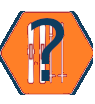
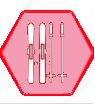
cambios FF

diff --git a/app/Traits/ForfaitsPaymentsTraits.php b/app/Traits/ForfaitsPaymentsTraits.php
@@ -406,6 +406,10 @@ trait ForfaitsPaymentsTraits {
     return die('404');
   }
   
+  /**
+   * /admin/forfaits/orders
+   * @return type
+   */
   function listOrders(){
     
     $year = $this->getActiveYear();
@@ -418,7 +422,7 @@ trait ForfaitsPaymentsTraits {
     
     if ($bIDs) $bIDs = array_unique($bIDs);
   
-    $allForfaits = Forfaits::whereIn('status', [2,3])
+    $allForfaits = Forfaits::whereIn('status', [2,3,5])
             ->whereIn('forfaits.book_id',$bIDs)->get();
 
     $lstOrders = [];
@@ -945,6 +949,7 @@ trait ForfaitsPaymentsTraits {
           }
      
           if ($type == 'sms'){
+            return response()->json(['status' => 'error','msg'=>'SMS no habilitado']);
             if (!$phone || trim($phone) == ''){
               return response()->json(['status' => 'error','msg'=>'el usuario no posee teléfono']);
             }
@@ -999,11 +1004,55 @@ trait ForfaitsPaymentsTraits {
               }
               $orderText = $this->renderOrderList($ordersLst);
             }
-            
             $this->sendEmail_linkForfaitPayment($cli_email,$cli_name,$subject,$orderText,$urlPay,$book);
+            return response()->json(['status' => 'ok']);
           }
-          return response()->json(['status' => 'ok']);
         }
+      return response()->json(['status' => 'error3']);
+    }
+    
+    public function recordarSolicitudFF(Request $req) {
+      
+      $key = $req->input('key', null);
+      $type = $req->input('type', 'mail');
+      $token = $req->header('token-ff');
+      $client = $req->header('client');
+      if (!$this->checkUserAdmin($token,$client)) return die('404');
+    
+      $oForfait = Forfaits::getByKey($key);
+      if (!$oForfait) {
+        return response()->json(['status' => 'error1']);
+      }
+      
+      if ($oForfait){
+          $book = Book::find($oForfait->book_id);
+          if ($book){
+            $cli_email = $book->customer->email;
+            $cli_name = $book->customer->name;
+            $phone = $book->customer->phone;
+            $subject = 'formulario peticion Forfaits, clases de esquí';
+          
+            $urlFF = env('FF_PAGE').encriptID($oForfait->id).'-'. getKeyControl($oForfait->id);
+            $message = $message_wsp = Settings::getContent('forfait_email_request');
+            $message = str_replace('{customer_name}', $cli_name, $message);
+           
+            if ($type == 'text'){
+              $message = str_replace('{link_forfait}', $urlFF, $message);
+              $message = $this->clearVars($message);
+              $messageWSP = $message;
+              $message = strip_tags($message);
+              return response()->json(['status' => 'ok','msg'=>$message,'wsp'=> urlencode($messageWSP)]);
+            }
+            if ($type == 'mail'){
+              $message = nl2br($message);
+              $urlFF ='<a href="'.$urlFF.'" title="Ir al forfait">'.$urlFF.'</a>';
+              $message = str_replace('{link_forfait}', $urlFF, $message);
+              $message = $this->clearVars($message);
+              $this->sendEmail_text($message,$subject,$cli_email);
+              return response()->json(['status' => 'ok']);
+            }
+        }
+      }
       return response()->json(['status' => 'error3']);
     }
     
@@ -1422,6 +1471,10 @@ trait ForfaitsPaymentsTraits {
     
     $orders = [];
     $ff_status = $oForfait->checkStatus();
+    $oBook = Book::find($oForfait->book_id);
+    
+    //es mas important el status en la reserva
+    if ($oBook) $ff_status = $oBook->ff_status;
     
     $orderLst = $oForfait->orders()->get();
     if ($orderLst){
@@ -1599,13 +1652,23 @@ trait ForfaitsPaymentsTraits {
     if ($oForfait){
       $resume = $oForfait->resume();
       echo $resume;
-      if ($oForfait->more_info){
-        echo '<div class="ffsolicitud">';
-        if ($oForfait->phone) echo $oForfait->phone.'<br>';
-        if ($oForfait->email) echo $oForfait->email.'<br>';
-        echo $oForfait->more_info;
-        echo '</div>';
-      }
+//      if ($oForfait->more_info){
+//        echo '<div class="ffsolicitud">Solicitud: <br/>';
+////        if ($oForfait->phone) echo $oForfait->phone.'<br>';
+////        if ($oForfait->email) echo $oForfait->email.'<br>';
+//        $more_info = json_decode($oForfait->more_info);
+//        if ($more_info){
+//          if (is_array($more_info->opts) && count($more_info->opts)>0){
+//            echo '<b>'.implode(', ', $more_info->opts).'</b><br>';
+//          }
+//          echo $more_info->txt;
+//        } else {
+//          echo $oForfait->more_info;
+//        }
+//        
+//        
+//        echo '</div>';
+//      }
     } else {
       echo '<p>Sin datos</p>';
     }

diff --git a/app/Traits/BookEmailsStatus.php b/app/Traits/BookEmailsStatus.php
@@ -507,31 +507,43 @@ trait BookEmailsStatus
      * @param type $book
      * @param type $subject
      */
-    public function sendEmail_ForfaitNewOrder($order,$link)
+    public function sendEmail_ForfaitNewOrder($order,$link,$customer)
     {
        
       $subject = 'Nueva solicitud pública de Forfaits';
       
       $mailClientContent = 'Hola, un nuevo usuario ha solicitado Forfaits desde la parte pública:<br/><br/>';
       $linkBook = '<a href="https://admin.apartamentosierranevada.net/admin/reservas/update/'.$order->book_id.'">'.$order->book_id.'</a>';
-      $clientMail = $order->email;
+      
+      $more_info = json_decode($order->more_info);
+      $opts = $more_info->opts;
+      $optText = '';
+      if (is_array($opts) && count($opts)>0){
+        $optText = implode(', ', $opts);
+      }
+      
+      $clientMail = $customer->email;
+      $mailClientContent .= '<b>Huesped:</b> '.$customer->name.'<br/><br/>';
       $mailClientContent .= '<b>Reserva:</b> '.$linkBook.'<br/><br/>';
       $mailClientContent .= '<b>e-mail:</b> '.$clientMail.'<br/><br/>';
-      $mailClientContent .= '<b>Teléfono:</b> '.$order->phone.'<br/><br/>';
-      $mailClientContent .= '<b>Petición:</b> '.$order->more_info.'<br/><br/>';
+      $mailClientContent .= '<b>Teléfono:</b> '.$customer->phone.'<br/><br/>';
+      $mailClientContent .= '<b>Opciones:</b> '.$optText.'<br/><br/>';
+      $mailClientContent .= '<b>Petición:</b> '.$more_info->txt.'<br/><br/>';
 
       $mailClientContent .= '<br/><br/>Puedes acceder a la vista pública de la orden a travéz del enlace'
               . '<br/><a href="'.$link.'" title="Ir al Forfaits">'.$link.'</a><br/><br/>';
-        $sended = Mail::send('backend.emails.forfait', [
-            'mailContent' => $mailClientContent,
-            'title'       => $subject
-        ], function ($message) use ($subject,$clientMail) {
-            $message->from($clientMail);
-            $message->to(env('MAIL_FROM_FORFAITS'));
-            $message->subject($subject);
-        });
-        
-        return $sended;
+      
+      if (!$clientMail) $clientMail = 'customer@apartamentosierranevada.net';
+      $sended = Mail::send('backend.emails.forfait', [
+          'mailContent' => $mailClientContent,
+          'title'       => $subject
+      ], function ($message) use ($subject,$clientMail) {
+          $message->from($clientMail);
+          $message->to(env('MAIL_FROM_FORFAITS'));
+          $message->subject($subject);
+      });
+
+      return $sended;
     }
     
      /**
@@ -719,6 +731,29 @@ trait BookEmailsStatus
             $message->replyTo(config('mail.from.address'));
         });
         
+        return $sended;
+    }
+    
+    /**
+     *
+     * @param type $book
+     * @param type $subject
+     */
+    public function sendEmail_text($text, $subject,$emailTo)
+    {
+      if (!$emailTo || trim($emailTo) == '') return;
+      
+        setlocale(LC_TIME, "ES");
+        setlocale(LC_TIME, "es_ES");
+        $sended = Mail::send('backend.emails.base', [
+            'mailContent' => $text,
+            'title'       => $subject
+        ], function ($message) use ($emailTo, $subject) {
+            $message->from(env('MAIL_FROM'));
+            $message->to($emailTo);
+            $message->subject($subject);
+            $message->replyTo(env('MAIL_FROM'));
+        });
         return $sended;
     }
 }

diff --git a/app/Http/Controllers/ForfaitsItemController.php b/app/Http/Controllers/ForfaitsItemController.php
@@ -1013,23 +1013,23 @@ class ForfaitsItemController extends AppController {
     if (!$this->checkUserAdmin($token,$client)) return die('404');
     
       $key = $req->input('key', null);
-      $data = $req->input('data', null);
+      $status = $req->input('data', null);
       if ($key) {
         $aKey = explode('-', $key);
         $orderID = isset($aKey[0]) ? ($aKey[0]) : null;
         $control = isset($aKey[1]) ? ($aKey[1]) : null;
         $orderID = desencriptID($orderID);
-        if (is_numeric($orderID) &&  $control == getKeyControl($orderID)){
+        if (is_numeric($orderID) && is_numeric($status) &&  $control == getKeyControl($orderID)){
             $order = Forfaits::find($orderID);
             if ($order){
               $bookingID = $order->book_id;
               $book = Book::find($bookingID);
               if ($book) {
-                $book->ff_status = intval($data);
+                $book->ff_status = $status;
                 $book->save();
               }
               
-              $order->status = intval($data);
+              $order->status = $status;
               $order->save();
               return response()->json(['status' => 'ok']);
             }
@@ -1128,6 +1128,11 @@ class ForfaitsItemController extends AppController {
     return $return;
   }
   
+  /**
+   * createNewOrder
+   * @param Request $req
+   * @return string
+   */
   function createNewOrder(Request $req) {
     
     $key = $req->input('tkn', null);
@@ -1136,36 +1141,37 @@ class ForfaitsItemController extends AppController {
       return die('404');
     }
     
-    $c_email = $req->input('c_email',null);
-    $c_phone = $req->input('c_phone',null);
+//    $c_email = $req->input('c_email',null);
+//    $c_phone = $req->input('c_phone',null);
     $c_petition = $req->input('c_petition',null);
     $opts = $req->input('opts',null);
-    if (is_array($opts) && count($opts)>0){
-      $c_petition = '<p><b>'.implode(', ', $opts).'</b></p>'.$c_petition;
-    }
+    $more_info = ['txt'=>$c_petition,'opts'=>$opts];
     $return = array(
         'status' => 'ok',
         'link'   => null
     );
     /** @FF-ToDo get by orderID */
-    if ($c_email) $forfait->email = $c_email;
-    if ($c_phone) $forfait->phone = $c_phone;
-    $forfait->more_info = $c_petition;
-    
-    
+//    if ($c_email) $forfait->email = $c_email;
+//    if ($c_phone) $forfait->phone = $c_phone;
+    $forfait->more_info = json_encode($more_info);
     $forfait->save();
     
     
+    $type_s = $req->input('type_s',null);
     $oBook = Book::find($forfait->book_id);
-    if ($oBook->ff_status != 3 && $oBook->ff_status!= 4){ 
+    if ($type_s == 'customer'){// || ($oBook->ff_status != 3 && $oBook->ff_status!= 4)){ 
       $oBook->ff_status = 5;
       $oBook->save();
     }
       
+    $customer = null;
+    if ($oBook->customer){ 
+      $customer = $oBook->customer;
+    }              
     
     $link = env('FF_PAGE').encriptID($forfait->id).'-'. getKeyControl($forfait->id);   
     
-    $this->sendEmail_ForfaitNewOrder($forfait,$link);
+    $this->sendEmail_ForfaitNewOrder($forfait,$link,$customer);
 
     return 'Solicitud enviada';
             

diff --git a/app/Settings.php b/app/Settings.php
@@ -59,6 +59,7 @@ class Settings extends Model {
            'text_payment_link',
            'SMS_Partee_msg',
            'SMS_buzon',
+          'forfait_email_request'
       ];
     }
 
@@ -86,6 +87,7 @@ class Settings extends Model {
         'second_payment_reminder' => 'Recordatorio 2º pago',
         'second_payment_confirm' => 'Confirmación del 2º pago',
         'Forfait_email_payment_request' => 'Solicitud de pago Forfaits',
+        'forfait_email_request' => 'Mail Solicitud Forfaits',
         'Forfait_email_confirmation_payment' => 'Confirmación pago Forfait',
         'payment_receipt' => 'Mail de recibos de pagos',
         'book_email_buzon' => 'Envío de datos del Buzón',

diff --git a/app/Http/routes-forfaits.php b/app/Http/routes-forfaits.php
@@ -24,6 +24,7 @@
     Route::get('/api/forfaits/getCurrentCart/{bID}/{uID}', 'ForfaitsItemController@getCurrentCart');
     Route::get('/api/forfaits/sedOrder/{bID}/{uID}/{type}', 'ForfaitsItemController@sendClientEmail');
     Route::post('/api/forfaits/sendOrder', 'ForfaitsItemController@sendOrdenToClient');
+    Route::post('/api/forfaits/recordarSolicitudFF', 'ForfaitsItemController@recordarSolicitudFF');
     Route::post('/api/forfaits/showOrder', 'ForfaitsItemController@showOrder');
     Route::post('/api/forfaits/sendConsult', 'ForfaitsItemController@sendEmail');
     Route::get('/api/forfaits/getSeasons', 'ForfaitsItemController@getForfaitSeasons');

diff --git a/app/Http/Controllers/BookController.php b/app/Http/Controllers/BookController.php
@@ -1038,7 +1038,7 @@ class BookController extends AppController
     public function sendEmail(Request $request){
         $book = \App\Book::find($request->input('id'));
         if ($book){
-           if ($book->customer->send_mails == false || !$book->customer->email || trim($book->customer->email) == '') return 'El cliente no posee email';
+           if (!$book->customer->email || trim($book->customer->email) == '') return 'El cliente no posee email';
           $mailClientContent = $request->input('textEmail');
           $subject = 'Disponibilidad para tu reserva';
           $sended = Mail::send('backend.emails.base', [

diff --git a/resources/views/backend/planning/listados/bookLogs.blade.php b/resources/views/backend/planning/listados/bookLogs.blade.php
@@ -17,7 +17,7 @@
       @if($item->action == 'change_status')
       <div class="status">
         <div class="chat-text">{{$item->subject}} 
-          @if(isset($roomLst[$item->room_id]))<span> {{$roomLst[$item->room_id]}}</span> @endif
+          @if(isset($roomLst[$item->room_id]))<span><i> ({{$roomLst[$item->room_id]}})</i></span> @endif
         </div>
         <div class="chat-user">
           @if(isset($userLst[$item->user_id])) 

diff --git a/app/Models/Forfaits/Forfaits.php b/app/Models/Forfaits/Forfaits.php
@@ -103,6 +103,12 @@ class Forfaits extends Model
             'icon' => asset('/img/miramarski/ski_icon_status_orange.png')
         ];
         break;
+      case 5:
+        $result = [
+            'name' => 'INTERESADOS',
+            'icon' => asset('/img/miramarski/ski_icon_status_consulta.png')
+        ];
+        break;
     }
     return $result;
   }
